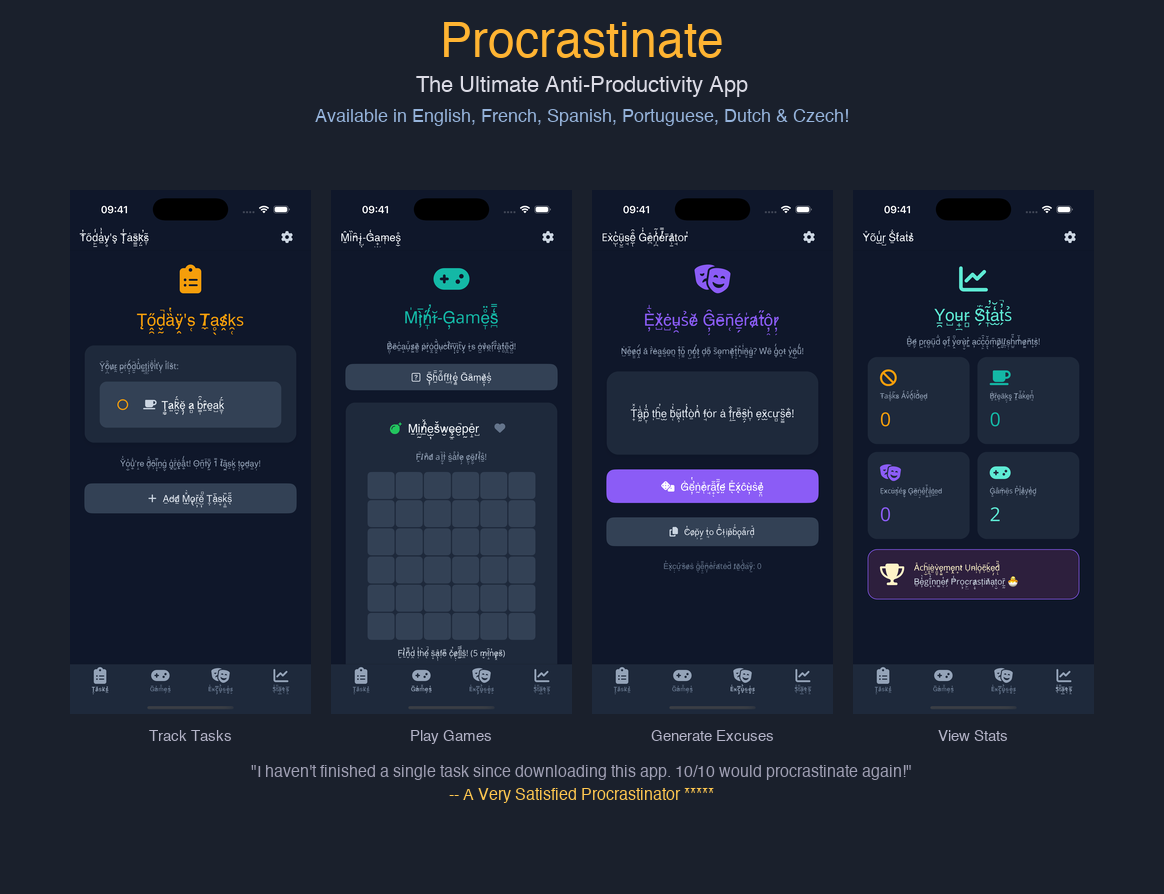
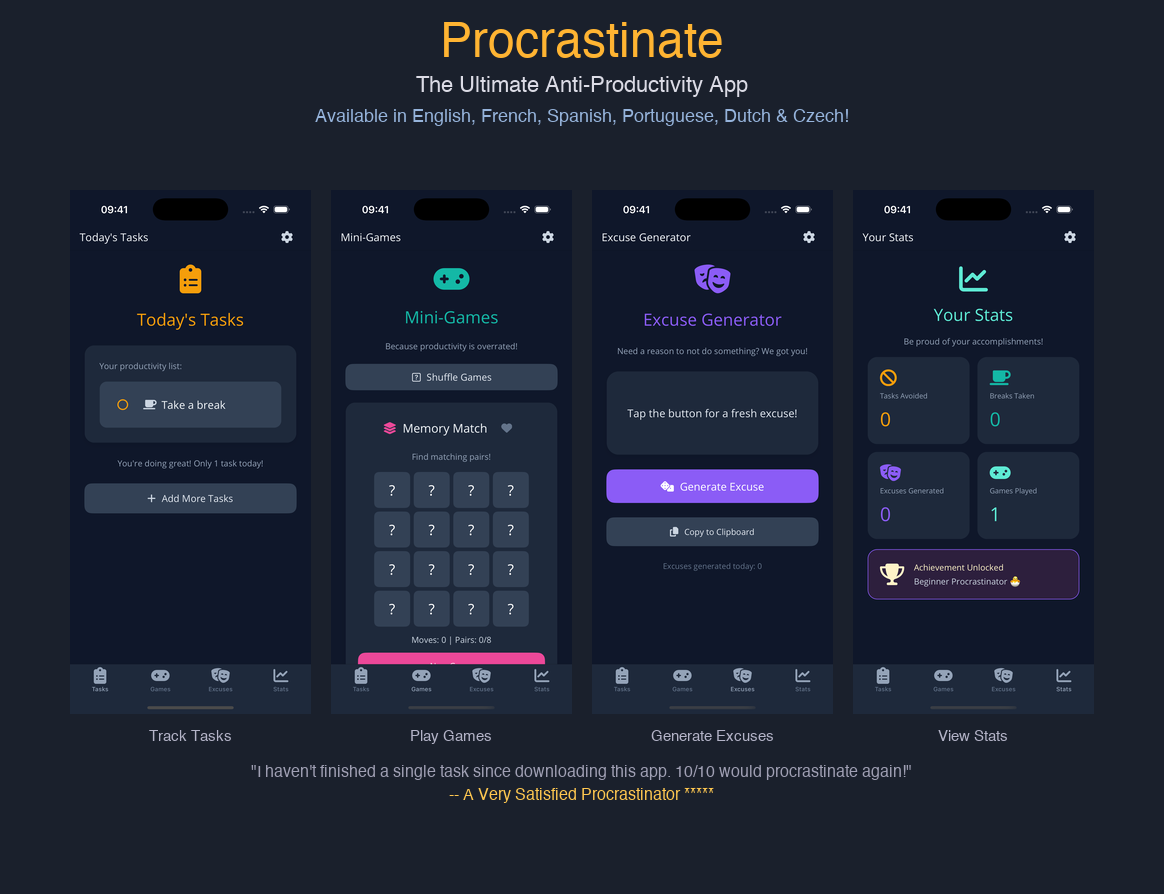
Update collage (English, Zalgo off) and add collage preferences to instructions

diff --git a/.github/copilot-instructions.md b/.github/copilot-instructions.md
@@ -50,6 +50,8 @@ Take screenshot: `xcrun simctl io <UDID> screenshot output.png`
   - Subtitle "The Ultimate Anti-Productivity App"
   - Multi-language tagline (English, French, Spanish, Portuguese, Dutch & Czech)
 - **Screenshots**: All 4 tabs (Tasks, Games, Excuses, Stats) scaled ~20%
+  - **Language**: English
+  - **Zalgo mode**: OFF
 - **Footer**:
   - Feature labels under each screenshot
   - Funny user testimonial with 5-star rating
